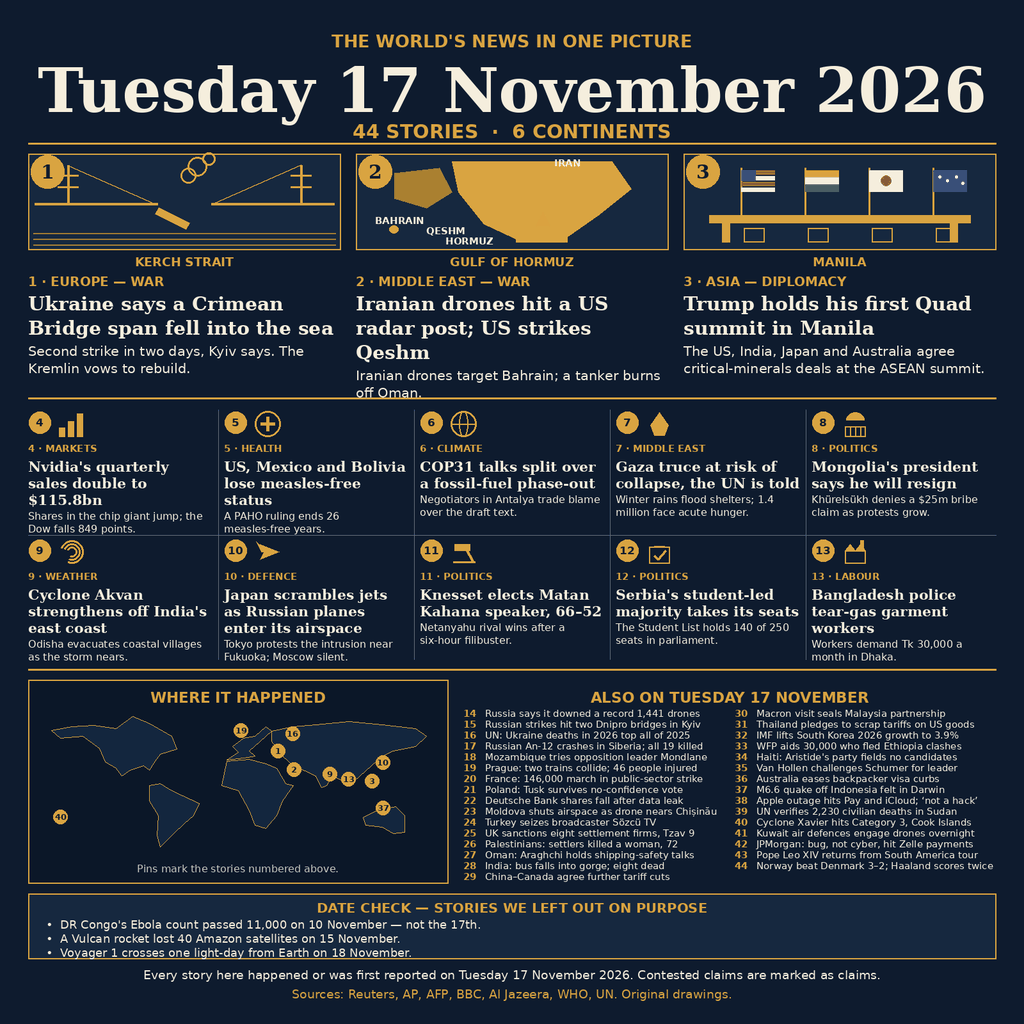
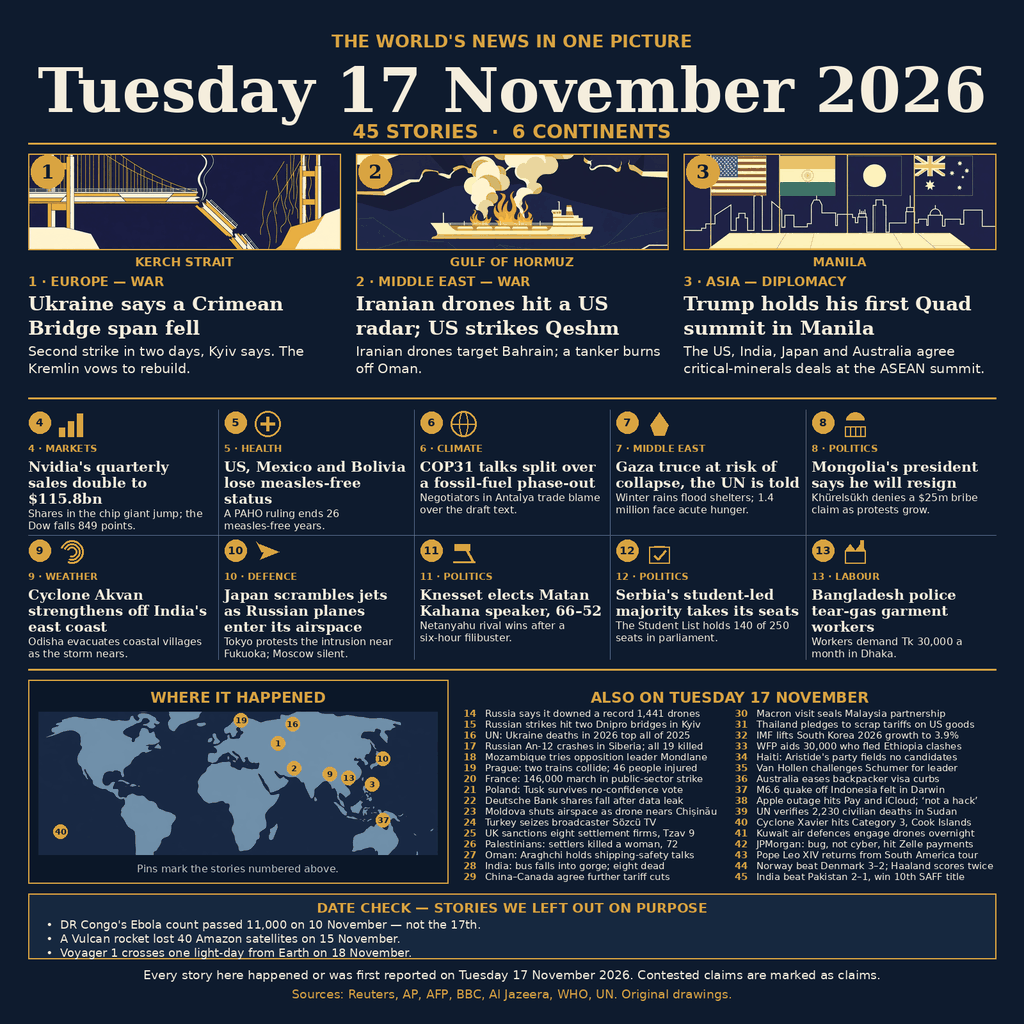
v2 hybrid: AI illustrations + 45 stories

diff --git a/README.md b/README.md
@@ -5,7 +5,7 @@
 ![reward](https://make.fun/badge/news-image-20261117/reward.svg)
 
 One image summing up the world's news of Tuesday 17 November 2026: a
-single front page with 44 stories from six continents — the Crimean Bridge
+single front page with 45 stories from six continents — the Crimean Bridge
 strike, the Iran–US escalation in the Gulf, and the first Quad summit in
 Manila leading, plus a world map, a numbered brief list, and a date-check
 box showing the stories deliberately left out.
